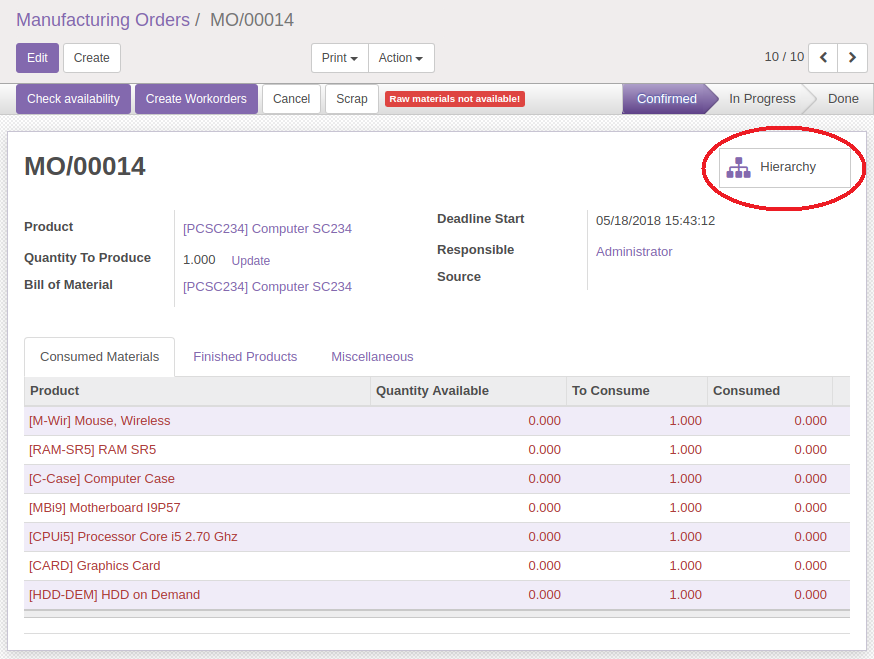
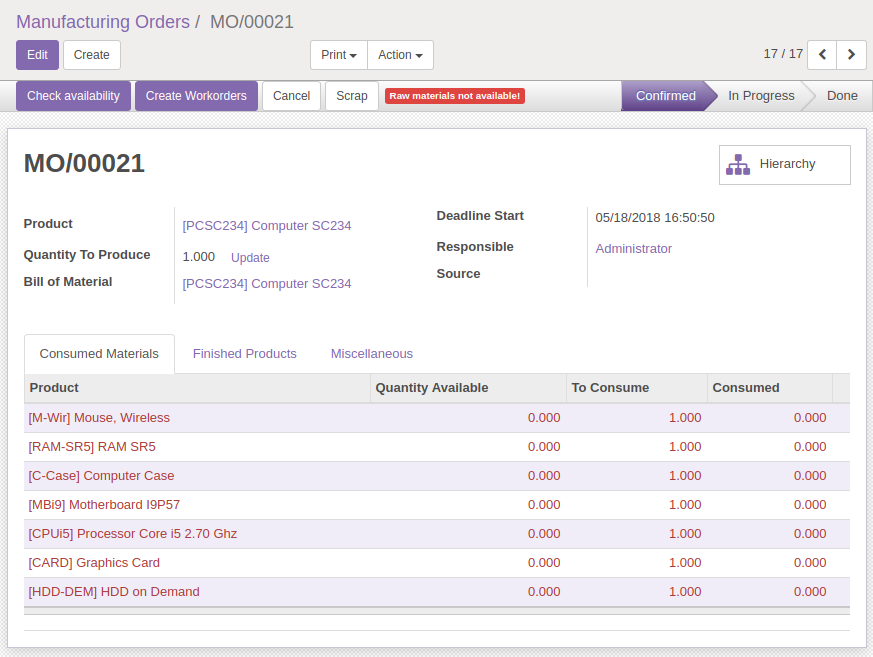
Display the hierarchy with the parent MO included + New screenshots

diff --git a/mrp_production_hierarchy/models/mrp_production.py b/mrp_production_hierarchy/models/mrp_production.py
@@ -33,7 +33,7 @@ class MrpProduction(models.Model):
         self.ensure_one()
         if self.child_ids:
             return {
-                'domain': "[('parent_id', '=', %s)]" % self.id,
+                'domain': "[('id', '=', %s)]" % self.id,
                 'name': _(u"Hierarchy"),
                 'view_type': 'tree',
                 'view_mode': 'tree',
